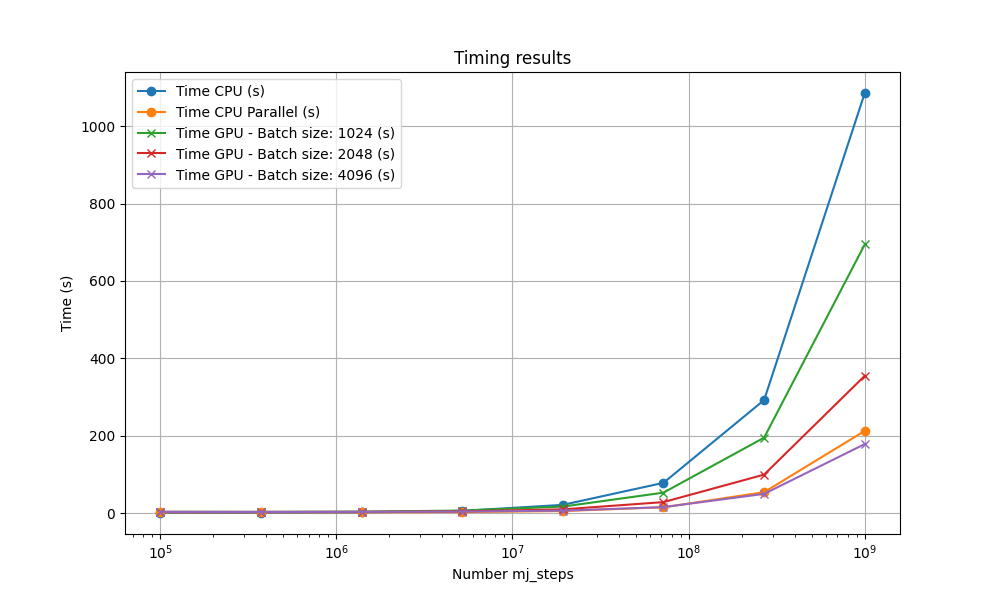
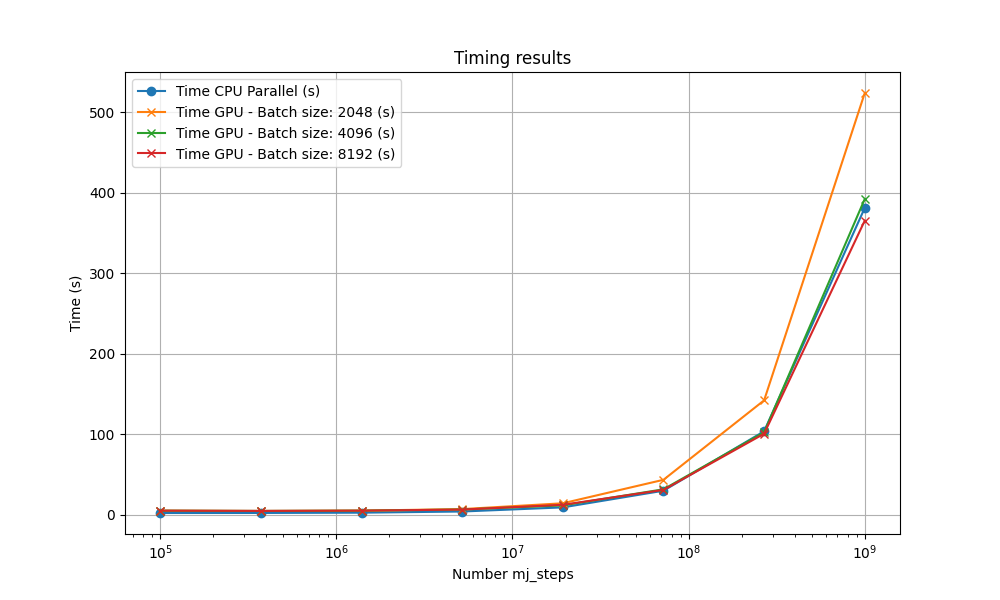
Small changes

diff --git a/mjx_time.py b/mjx_time.py
@@ -64,11 +64,11 @@ def time_model(mj_model, total_steps, gpu_batch_sizes):
     print(f'Num CPU Steps: {num_cpu_steps}')
 
     # -------------------------------- CPU serial test ---------------------------------------
-    print("Start of CPU serial test")
-    time_start = time.time()
-    for i in range(total_steps):
-        mujoco.mj_step(mj_model, mj_data)
-    time_cpu_serial = time.time() - time_start
+    # print("Start of CPU serial test")
+    # time_start = time.time()
+    # for i in range(total_steps):
+    #     mujoco.mj_step(mj_model, mj_data)
+    # time_cpu_serial = time.time() - time_start
 
     # ------------------------------- CPU parallel test --------------------------------------
     print("Start of CPU parallel test")
@@ -85,15 +85,15 @@ def time_model(mj_model, total_steps, gpu_batch_sizes):
     for batch_size in gpu_batch_sizes:
         time_gpu.append(simulate_GPU(mj_model, mj_data, total_steps, batch_size))
 
-    return time_cpu_serial, time_cpu_parallel, time_gpu
+    return time_cpu_parallel, time_gpu
 
-def create_plot(inputs, times_cpu_serial, times_cpu_parallel, times_gpu, batch_sizes):
+def create_plot(inputs, times_cpu_parallel, times_gpu, batch_sizes):
     print("begin plotting script")
     plt.figure(figsize=(10, 6))
 
     print(times_gpu)
 
-    plt.plot(inputs, times_cpu_serial, label='Time CPU (s)', marker = 'o')
+    # plt.plot(inputs, times_cpu_serial, label='Time CPU (s)', marker = 'o')
     plt.plot(inputs, times_cpu_parallel, label='Time CPU Parallel (s)', marker='o')
 
     for i, timing_list in enumerate(times_gpu):
@@ -130,21 +130,21 @@ if __name__ == "__main__":
 
     mj_model = mujoco.MjModel.from_xml_string(xml)
 
-    batch_sizes = [1024, 2048, 4096]
+    batch_sizes = [2048, 4096, 8192]
 
     time_cpu_serial = []
     time_cpu_parallel = []
     time_gpu_parallel = [[] for _ in range(len(batch_sizes))] 
 
     for size in inputs:
-        t_cpu_s, t_cpu_p, t_gpu = time_model(mj_model, size, batch_sizes)
-        time_cpu_serial.append(t_cpu_s)
+        t_cpu_p, t_gpu = time_model(mj_model, size, batch_sizes)
+        # time_cpu_serial.append(t_cpu_s)
         time_cpu_parallel.append(t_cpu_p)
 
         for i, t in enumerate(t_gpu):
             time_gpu_parallel[i].append(t)
 
-    create_plot(inputs, time_cpu_serial, time_cpu_parallel, time_gpu_parallel, batch_sizes)
+    create_plot(inputs, time_cpu_parallel, time_gpu_parallel, batch_sizes)
 
 
     # print(f'time cpu serial: {time_cpu_serial}, time cpu parallel {time_cpu_parallel} and time_gpu: {time_gpu}')
